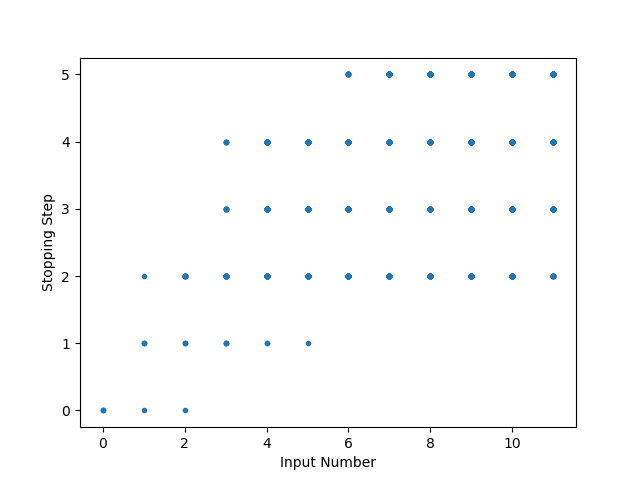
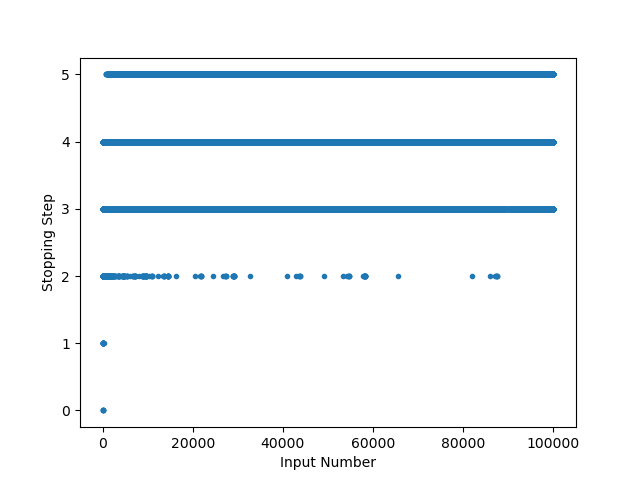
Final Update

diff --git a/CollatzConjecture.py b/CollatzConjecture.py
@@ -26,7 +26,7 @@ def Even_or_Odd_func(value):
 	print(modVal)			# Prints the modVal
 
 # Initializing empty matrix for value storage
-MATRIX = np.zeros((150,2), dtype = int)	# Sets and empty matrix
+MATRIX = np.zeros((200,2), dtype = int)	# Sets and empty matrix
 
 # Initializing step value to determine the total number of steps needed until thr 4-2-1 loop
 step = 0				# Sets the first step value to be zero
@@ -53,23 +53,26 @@ while num > 1: 				# Set to run to allow for the 4-2-1 loop
 		num = int((3*num)+1)	# Follows the conjecture rule for the odd values
 
 	MATRIX[step, 0] = step		# Saves the step in the first column
-	MATRIX[step, 1] = num		# Saves the pattern value in the second column of the matrix
+	MATRIX[step+1, 1] = num		# Saves the pattern value in the second column of the matrix
 
 	step = step + 1			# Increases the step value for each loop
 
-# print('Step, Value')			# Prints the column lables for the matrix
-# print(MATRIX)				# Prints the matrix
+MATRIX[0,1] = input_num
+MATRIX[step,0] = int(step)
+print('Step, Value')			# Prints the column lables for the matrix
+print(MATRIX)				# Prints the matrix
 
 print('\n\nThe number of steps needed is:',step-1)
 
 print('\n\n==============================================================\n\n')
 
 # Plots the steps vs values
-plt.plot(MATRIX[:,0],MATRIX[:,1])
-plt.xlabel('Input Number')
-plt.ylabel('Stopping Step')
+plt.plot(MATRIX[0:153,0],MATRIX[0:153,1],marker='.',linestyle='-',linewidth = 1)
+plt.title('Input Number is: 1000000')
+plt.ylabel('Value')
+plt.xlabel('Stopping Step')
 plt.gcf()
-plt.savefig('SingleNumber.png')
+plt.savefig('SingleNumber_1000000.png')
 
 
 print('Figure Saved\n\n')

diff --git a/CollatzConjectureRange.py b/CollatzConjectureRange.py
@@ -65,7 +65,7 @@ for x in range (1,upperlimit):
                 		
 		step = step + 1	# Increases the step value for each loop
 
-	MATRIX[x, 0] = np.log(x)		# Saves the number at hand in the first column
+	MATRIX[x, 0] = x #np.log(x)		# Saves the number at hand in the first column
 
 # print('Number, No. of Steps')	        # Prints the column lables for the matrix
 # print(MATRIX)				# Prints the matrix

diff --git a/README.md b/README.md
@@ -1,1 +1,84 @@
-# CollatzConjecture
+<center>
+
+##  👋 Hello! Welcome to my the walk-through of the Collatz conjecture!
+
+</center>
+
+---
+
+<b> In this walk-through, we: </b>
+
+1. Introduce the Collatz conjecture and review some of its history <a href="https://en.wikipedia.org/wiki/Collatz_conjecture">here</a> and <a href="https://www.quantamagazine.org/mathematician-terence-tao-and-the-collatz-conjecture-20191211/">here</a>
+
+2. Generate some code to demonstrate the principle and visually see it in action 
+
+---
+
+<b> A breif summary of the Collatz conjecture: </b>
+
+"The Collatz conjecture is a conjecture in mathematics that concerns sequences defined as follows: start with any positive integer n. Then each term is obtained from the previous term as follows: if the previous term is even, the next term is one half of the previous term. If the previous term is odd, the next term is 3 times the previous term plus 1. The conjecture is that no matter what value of n, the sequence will always reach 1." 
+
+<center>
+
+<a href="https://www.codecogs.com/eqnedit.php?latex=f(n)&space;=&space;\begin{Bmatrix}&space;\frac{n}{2}&space;&&space;if~n&space;\equiv&space;0&space;\\&space;3n&plus;1&space;&&space;if~n&space;\equiv&space;1&space;\end{Bmatrix}" target="_blank"><img src="https://latex.codecogs.com/gif.latex?f(n)&space;=&space;\begin{Bmatrix}&space;\frac{n}{2}&space;&&space;if~n&space;\equiv&space;0&space;\\&space;3n&plus;1&space;&&space;if~n&space;\equiv&space;1&space;\end{Bmatrix}" title="f(n) = \begin{Bmatrix} \frac{n}{2} & if~n \equiv 0 \\ 3n+1 & if~n \equiv 1 \end{Bmatrix}" /></a>
+
+</center>
+
+[(source)](https://en.wikipedia.org/wiki/Collatz_conjecture)
+
+---
+
+<b> Some findings... </b>
+
+<center>
+
+The graphs below show how many steps it takes for a number to reach 1...
+
+|  |  |
+| :-------: | :-------: |
+| 0 through 100![](./0thru100.png) | 0 through 250 ![](./0thru250.png) |
+| 0 through  1,000![](./0thru1000.png) | 0 through 4,000 ![](./0thru4000.png)
+| 0 through 10,000 ![](./0thru9999.png) | 0 through 20,000 ![](./0thru20000.png) |
+| 0 through 100,000 ![](./0thru100000.png) | 0 through 500,000 ![](./0thru500000.png) |
+
+The graphs below shows the progression for a number to reach 1... 
+
+|  |  |
+| :-------: | :-------: |
+| ![](./SingleNumber_10.png) | ![](./SingleNumber_50.png) |
+| ![](./SingleNumber_100.png) | ![](./SingleNumber_250.png) |
+| ![](./SingleNumber_500.png) | ![](./SingleNumber_1000.png) |
+| ![](./SingleNumber_5000.png) | ![](./SingleNumber_10000.png) | 
+| ![](./SingleNumber_100000.png) |![](./SingleNumber_1000000.png) |
+
+</center>
+
+Unfortunately, to this day, there has not been any major patters found for this conjecture. The patterns may look similar when the input number becomes large, but there is now formula to predict the number of steps needed to reach the terminal value. 
+
+---
+
+<b> Check out some of the Educational Repos I have made... </b>
+
+1) [Solution and Expansion of an Eigenvalue Problem](https://github.com/LiamNesterEducational/ExpansionOfAnEigenvalueProblem)
+2) [Creating an N-bit Data Aquisition (DAQ) System](https://github.com/LiamNesterEducational/CreatingAnNBitDataAqSystem)
+
+<center>
+
+***Stay tuned for more!***
+
+</center>
+
+---
+
+### Connect with me:
+
+
+[<img align="left" alt="chttps://liamnester.github.io/" width="30px" src="https://raw.githubusercontent.com/iconic/open-iconic/master/svg/globe.svg" />][website] 
+
+<br><br>
+
+[<img align="left" alt="codeSTACKr | LinkedIn" width="30px" src="https://cdn.jsdelivr.net/npm/simple-icons@v3/icons/linkedin.svg" />][linkedin]
+
+
+[website]: https://liamnester.github.io/
+[linkedin]: https://www.linkedin.com/in/liamnester/
